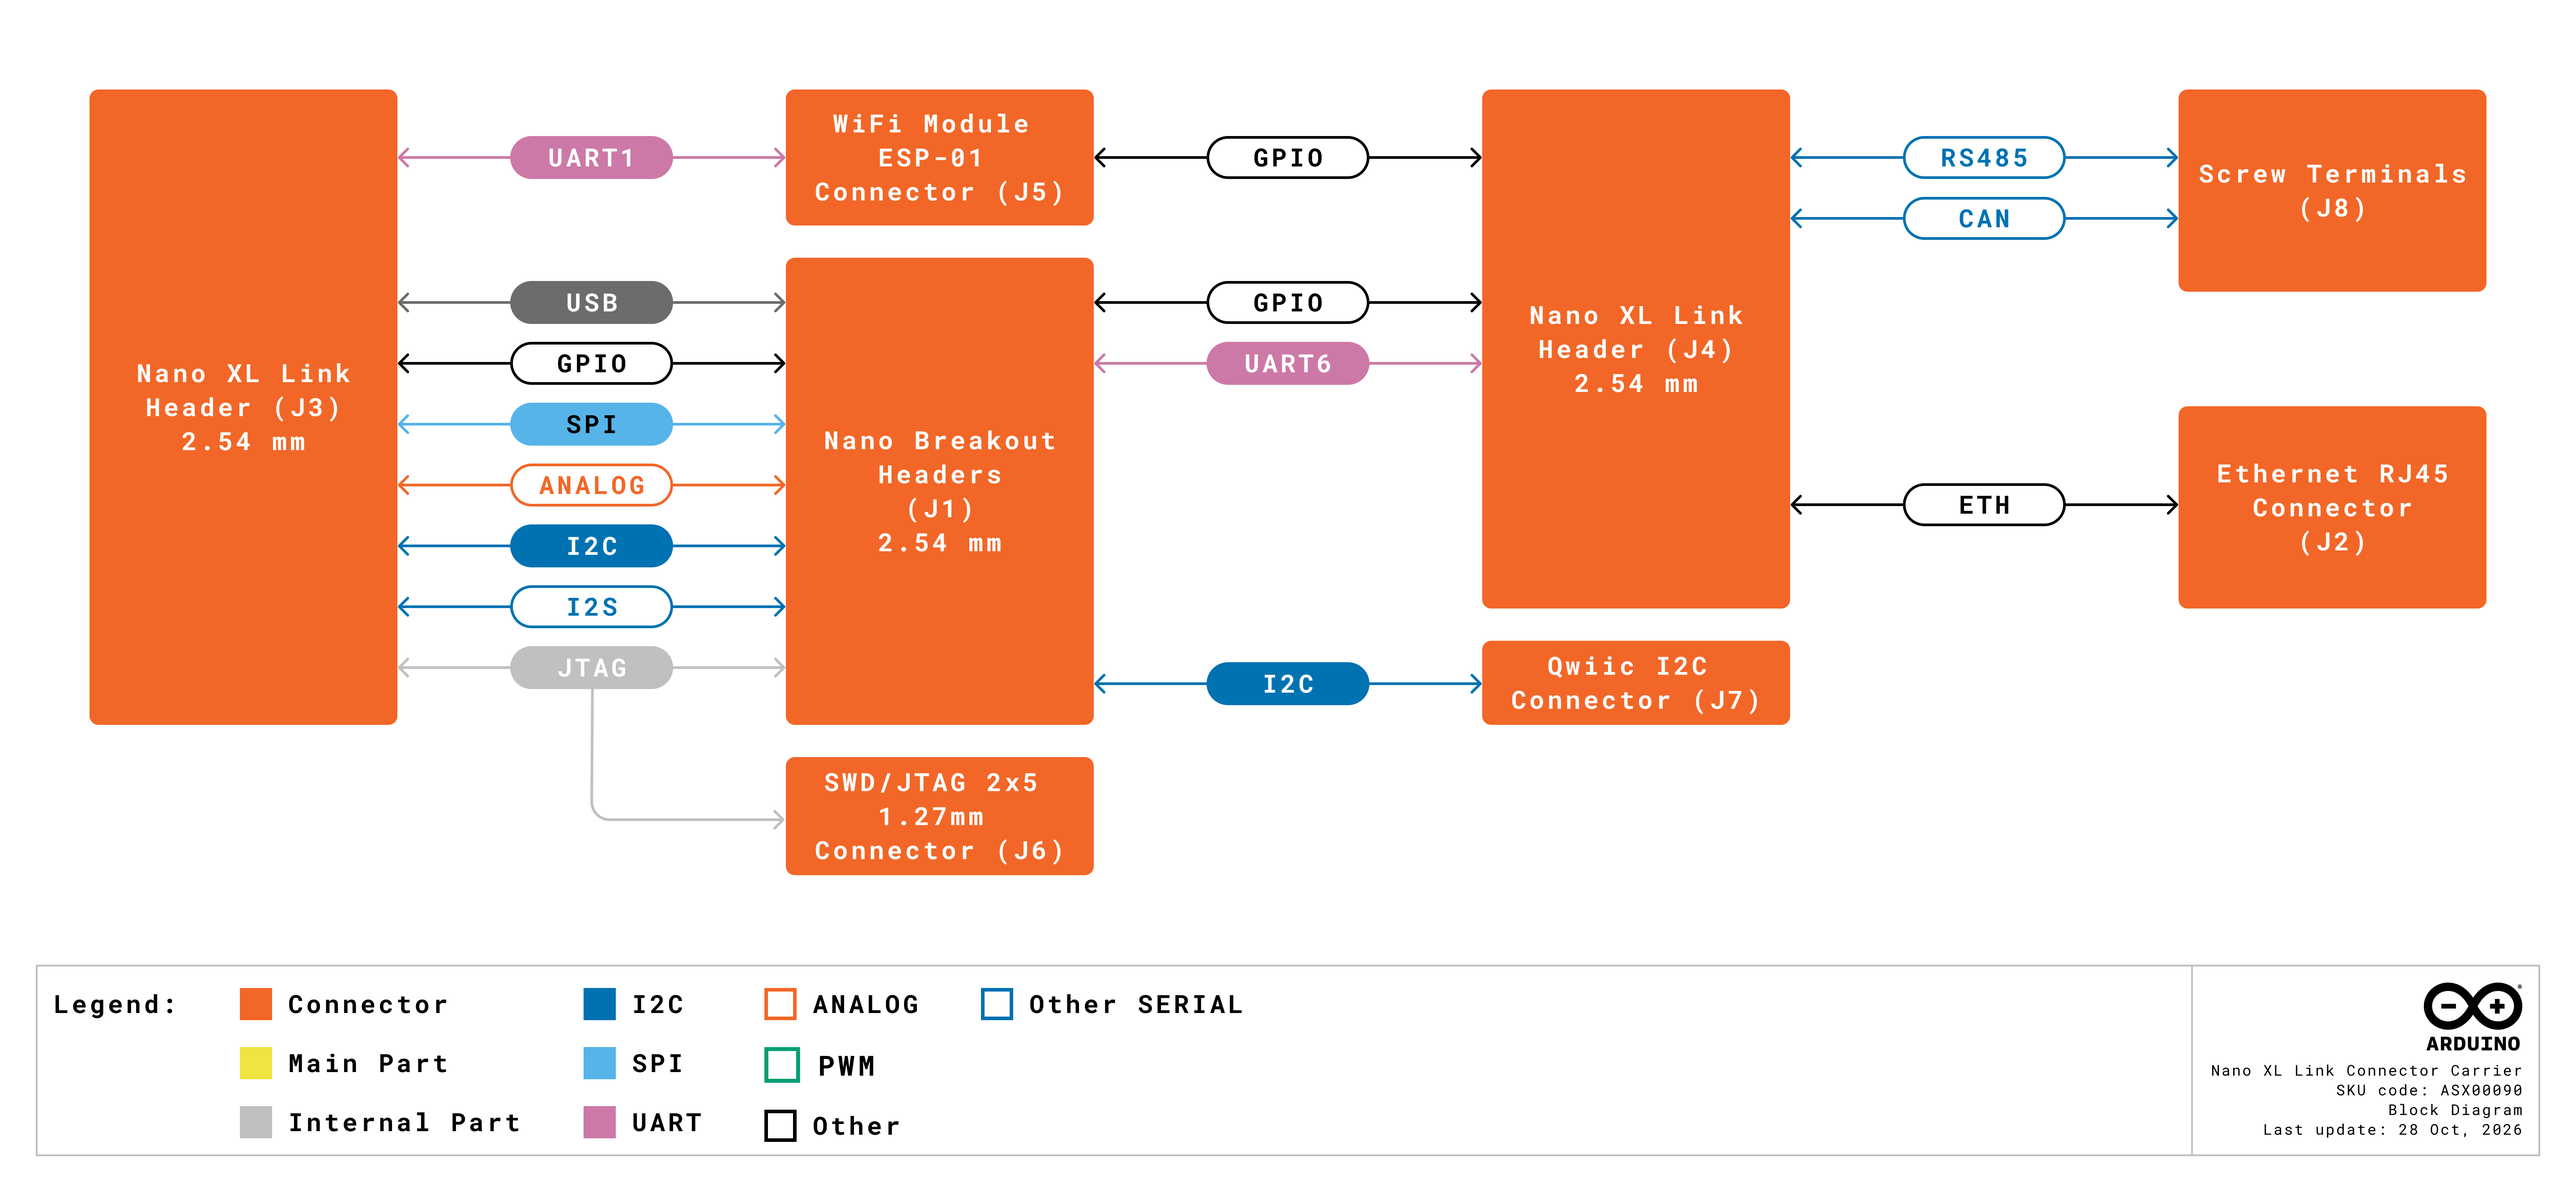
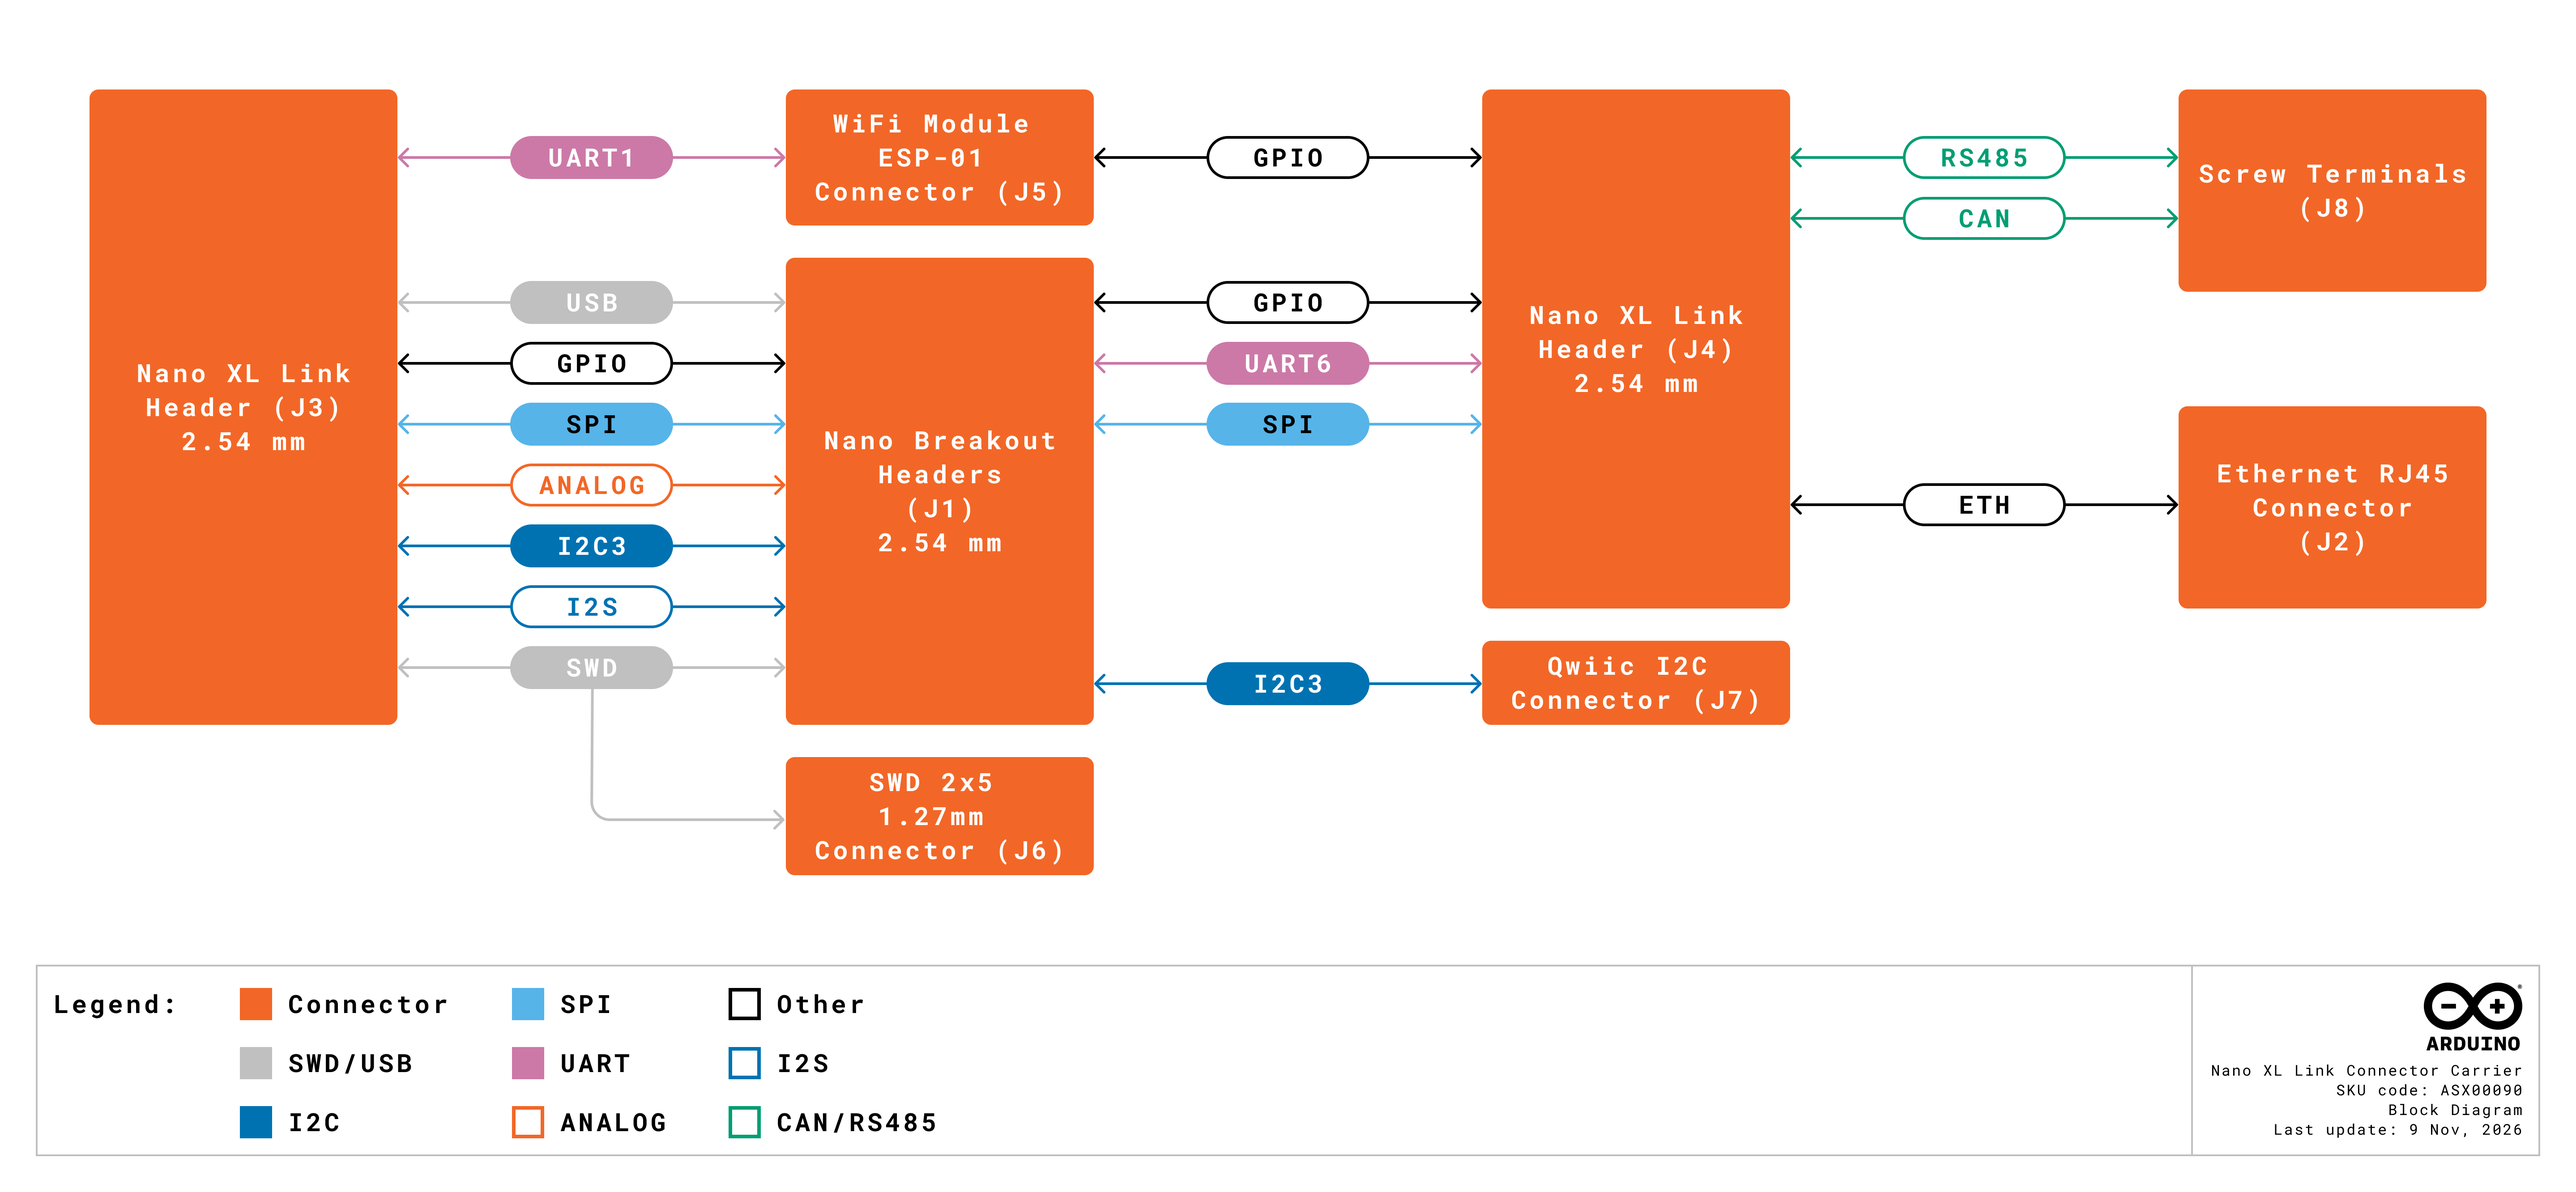
Some fixes and images updates

diff --git a/content/hardware/nano/carriers/nano-xl-connector-carrier/tutorials/user-manual/content.md b/content/hardware/nano/carriers/nano-xl-connector-carrier/tutorials/user-manual/content.md
@@ -30,7 +30,7 @@ This user manual will guide you through a practical journey covering the most in
 - [Arduino Nano XL Link](https://store.arduino.cc/products/nano-xl-link) (x1)
 - [Arduino Nano XL Link Connector Carrier](https://store.arduino.cc/products/nano-xl-connector-carrier) (x1)
 - [Arduino Modulino Thermo](https://store.arduino.cc/products/modulino-thermo) (x1) with its Qwiic cable.
-- WiFi Module ESP-01 (ESP8266) (x1)
+- Wi-Fi Module ESP-01 (ESP8266) (x1)
 - Ethernet Cable (x1)
 - Twisted pair wires
 - USB-C® cable (x1)
@@ -55,7 +55,7 @@ Here is an overview of the carrier's main components:
 - **Nano Breakout Headers (J1)**: Dual 2x20 female headers (2.54 mm pitch) that fully expose both the standard Nano footprint and the extended XL signal sets in an accessible layout suitable for prototyping, jumper wires, and measurement equipment.
 - **Nano XL Link Headers (J3, J4)**: Two 30-pin dual-row female headers that provide the direct physical and electrical pass-through for the host Nano XL Link board.
 - **Industrial Screw Terminals (J8, J9)**: Two 4-position terminal blocks designed for robust, field-ready connections, exposing the RS485 and CAN bus interfaces, as well as the external power input.
-- **Network & Wireless Connectivity**: Features a built-in RJ45 Ethernet port (J2) for wired networking and a dedicated 2x4 female header (J5) for seamless integration of an ESP8266 (ESP-01) WiFi module.
+- **Network & Wireless Connectivity**: Features a built-in RJ45 Ethernet port (J2) for wired networking and a dedicated 2x4 female header (J5) for seamless integration of an ESP8266 (ESP-01) Wi-Fi module.
 - **Power Management**: The carrier can be powered via the external VIN input (+7–24 VDC) on the screw terminal block. This input is protected by onboard reverse-polarity and TVS diodes before it powers the host Nano XL Link board. 
 - **Expansion & Debugging**: Includes a Qwiic I2C connector (J7) for plug-and-play Modulino nodes integration, and a 2x5 1.27mm SWD header (J6) for low-level debugging and programming.
 
@@ -83,7 +83,7 @@ The complete schematics are available for download as a PDF from the link below:
 
 The complete STEP files are available for download at the link below:
 
-- [Nano XL Link Connector Carrier STEP files](../../downloads/ASX00090-step.zip)
+- [Nano XL Link Connector Carrier STEP files](https://docs.arduino.cc/resources/models/ASX00090-step.zip)
 
 ### Form Factor
 
@@ -119,11 +119,13 @@ Once the Nano XL Link is mounted, the carrier can be powered by the following me
 
 ## Communication
 
-This section details the communication interfaces unlocked by the Nano XL Link Connector Carrier. By expanding the host board's connectivity, the carrier provides direct access to industrial CAN FD and RS485 networks, plug-and-play I2C via the Qwiic ecosystem, wired Ethernet, and integrated WiFi.
+This section details the communication interfaces unlocked by the Nano XL Link Connector Carrier. By expanding the host board's connectivity, the carrier provides direct access to industrial CAN FD and RS485 networks, plug-and-play I2C via the Qwiic ecosystem, wired Ethernet, and integrated Wi-Fi.
 
 ### CAN Bus
 
 The carrier exposes the host board's CAN FD interface through the onboard screw terminals, enabling reliable, high-speed communication with automotive systems, motor controllers, and distributed industrial PLCs. The Nano XL Link utilizes the **Texas Instruments TCAN3414** transceiver, a high-performance 3.3V CAN FD IC. 
+
+![CAN Bus Screw Terminal](assets/can-conn.png)
 
 Key features of the TCAN3414 include:
 
@@ -304,6 +306,8 @@ When a message is sent to the board it is shown as follows in the Serial Monitor
 
 Designed for high electrical noise immunity and long-distance data transmission across the factory floor, the RS485 interface is accessible via the onboard screw terminals, making it ideal for bridging legacy equipment and modern automation systems. 
 
+![RS-485 Screw Terminal](assets/rs485-conn.png)
+
 The Nano XL Link utilizes the **Texas Instruments THVD2410** transceiver, a highly robust, fault-protected 3.3V RS-485 IC designed specifically for harsh industrial environments.
 
 Key features of the THVD2410 include:
@@ -438,7 +442,9 @@ RS485.begin(9600, 50, 2000);
 
 A dedicated Qwiic connector provides a seamless, plug-and-play interface for the standard I2C bus, letting you quickly expand your system with a wide range of sensors and actuators, such as Modulino nodes.
 
-***Hardware Details (I2C3 vs I2C4)***
+![I2C Qwiic Connector](assets/I2C-conn.png)
+
+**Hardware Details (I2C3 vs I2C4)**
 
 The Qwiic connector on the Nano XL Link Connector Carrier routes to the host microcontroller's **I2C3** bus. This is physically and logically independent of the Qwiic connector mounted directly on the Nano XL Link board, which utilizes the **I2C4** bus.
 
@@ -504,6 +510,8 @@ When the code is running, the sensor readings will be displayed as follows in th
 ### Ethernet
 
 The integrated RJ45 port turns the carrier into a reliable wired IoT gateway, providing a stable, high-bandwidth connection to integrate your edge devices with local networks, SCADA systems, or cloud analytics servers.
+
+![RJ45 Ethernet Connector](assets/ethernet-conn.png)
 
 To drive this connection, the board features a **Microchip KSZ8081RNAIA-TR** Ethernet physical layer transceiver (PHY). 
 
@@ -653,6 +661,8 @@ Now you can control the Nano XL Link onboard LED by clicking the Web UI button.
 
 While the Nano XL Link host board does not feature built-in wireless connectivity, the Carrier provides a dedicated 2x4 female header designed specifically to host an **ESP8266 (ESP-01) module**. This lets you easily add Wi-Fi connectivity to your project without external breadboards or complex wiring.
 
+![Wi-Fi Module Connector](assets/wifi-conn.png)
+
 The header directly interfaces the ESP-01 module with the microcontroller's `UART1` bus. The Zephyr core natively includes a `WiFi` library tailored to communicate with this module seamlessly, translating standard Arduino networking commands into the AT commands required by the ESP8266.
 
 **Hardware Prerequisites:**
@@ -661,7 +671,7 @@ To ensure stable communication, the ESP-01 module plugged into the carrier **mus
 
 ![ESP-01 Installation](assets/wifi-module.png)
 
-The header **J5** provides connections to an ESP-01 WiFi module via UART1 and GPIOs.
+The header **J5** provides connections to an ESP-01 Wi-Fi module via UART1 and GPIOs.
 
 | Pin | Function | Pin | Function |
 | --- | -------- | --- | -------- |
@@ -808,14 +818,14 @@ void loop() {
 
 Once the code is uploaded, check for the assigned IP address on the Serial Monitor and open it in your browser:
 
-![WiFi LED Control Webserver](assets/wifi-webserver-example.png)
+![Wi-Fi LED Control Webserver](assets/wifi-webserver-example.png)
 
 Now you can control the Nano XL Link onboard LED by clicking on the Web UI button.
 
 
 ## Headers and Connectors
 
-The Nano XL Link Connector Carrier exposes all host signals through its dual 2x20 breakout headers (J1), making them easy to access with standard test equipment and jumper wires. For dedicated peripherals and industrial integration, it also features two 4-position screw terminal blocks (J8, J9) for RS-485, CAN, and Power IN, an RJ45 Ethernet port (J2), a Qwiic I2C connector (J7), and specific headers for an ESP-01 WiFi module (J5) and SWD/JTAG debugging (J6).
+The Nano XL Link Connector Carrier exposes all host signals through its dual 2x20 breakout headers (J1), making them easy to access with standard test equipment and jumper wires. For dedicated peripherals and industrial integration, it also features two 4-position screw terminal blocks (J8, J9) for RS-485, CAN, and Power IN, an RJ45 Ethernet port (J2), a Qwiic I2C connector (J7), and specific headers for an ESP-01 Wi-Fi module (J5) and SWD/JTAG debugging (J6).
 
 ### Nano XL Header (J4)
 
